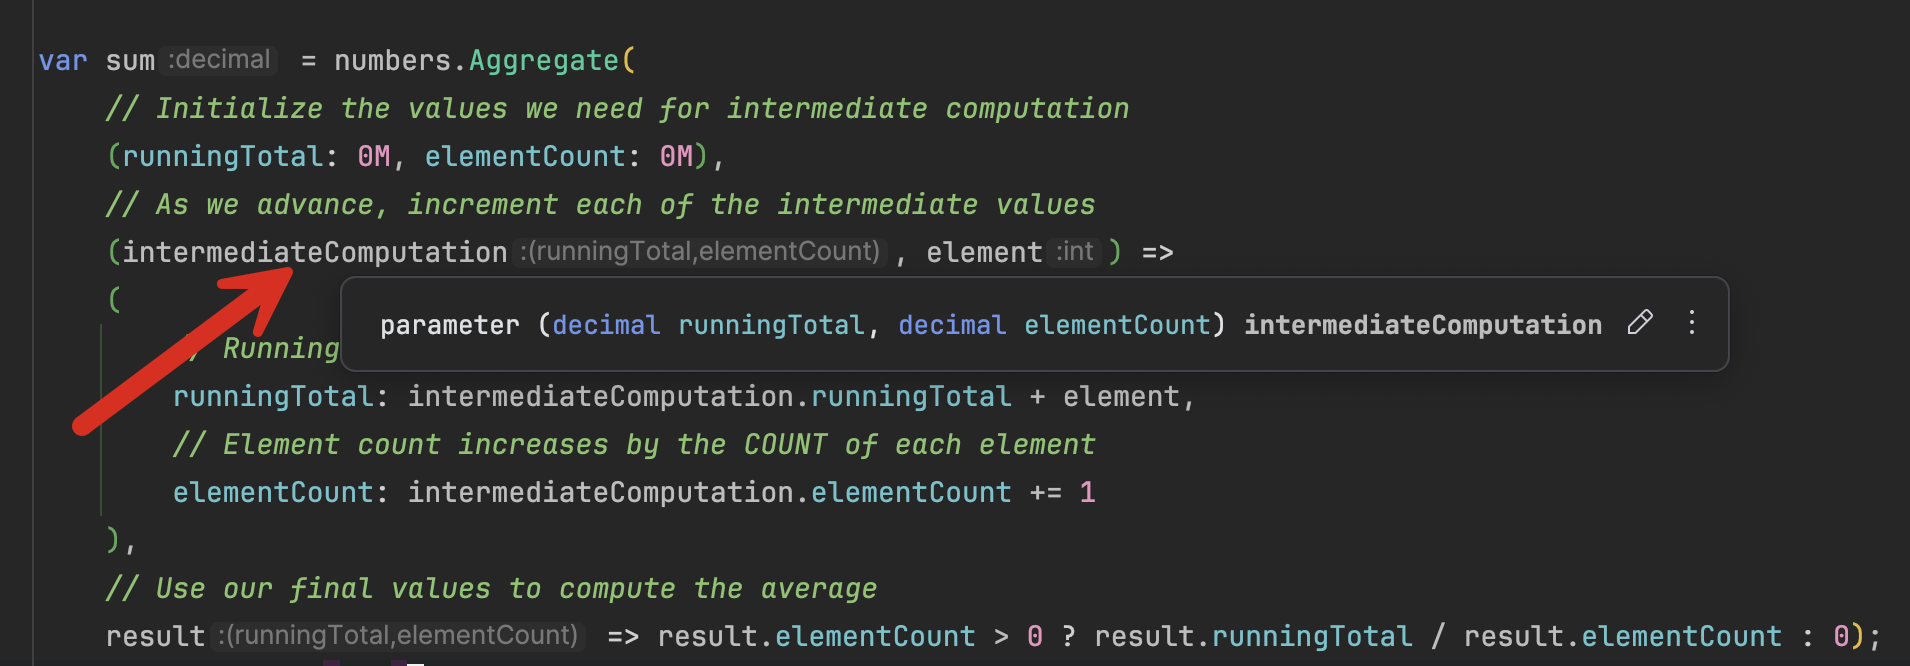
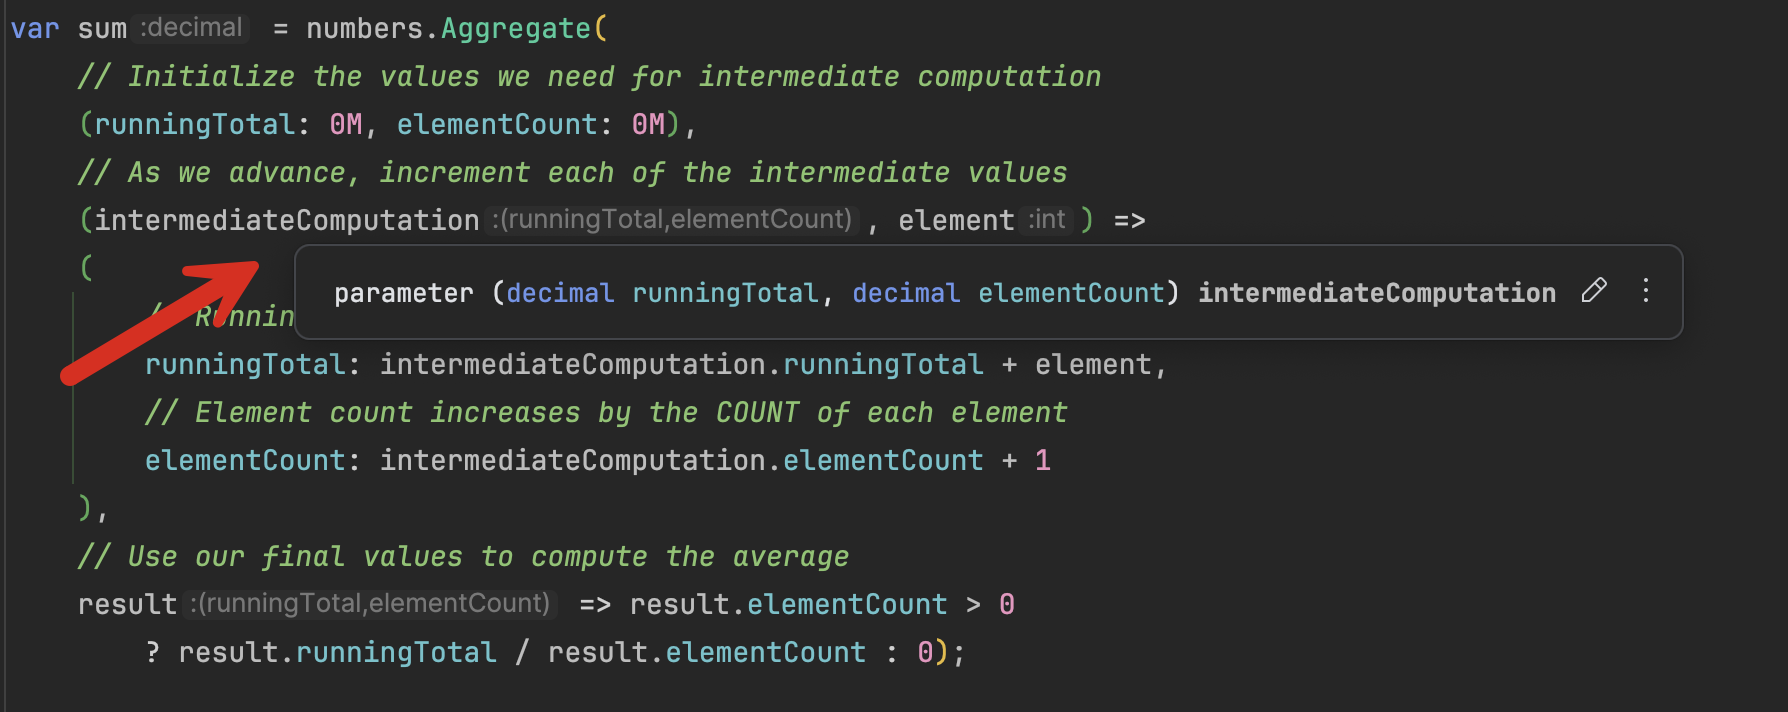
Update post

diff --git a/_posts/2025-01-26-using-linq-aggregate-aggregateby-to-perform-aggregate-computations.md b/_posts/2025-01-26-using-linq-aggregate-aggregateby-to-perform-aggregate-computations.md
@@ -44,7 +44,7 @@ var sum = numbers.Aggregate(
         // Running total increases by the VALUE of each element
         runningTotal: intermediateComputation.runningTotal + element,
         // Element count increases by the COUNT of each element
-        elementCount: intermediateComputation.elementCount += 1
+        elementCount: intermediateComputation.elementCount + 1
     ),
     // Use our final values to compute the average
     result => result.elementCount > 0 ? result.runningTotal / result.elementCount : 0);
